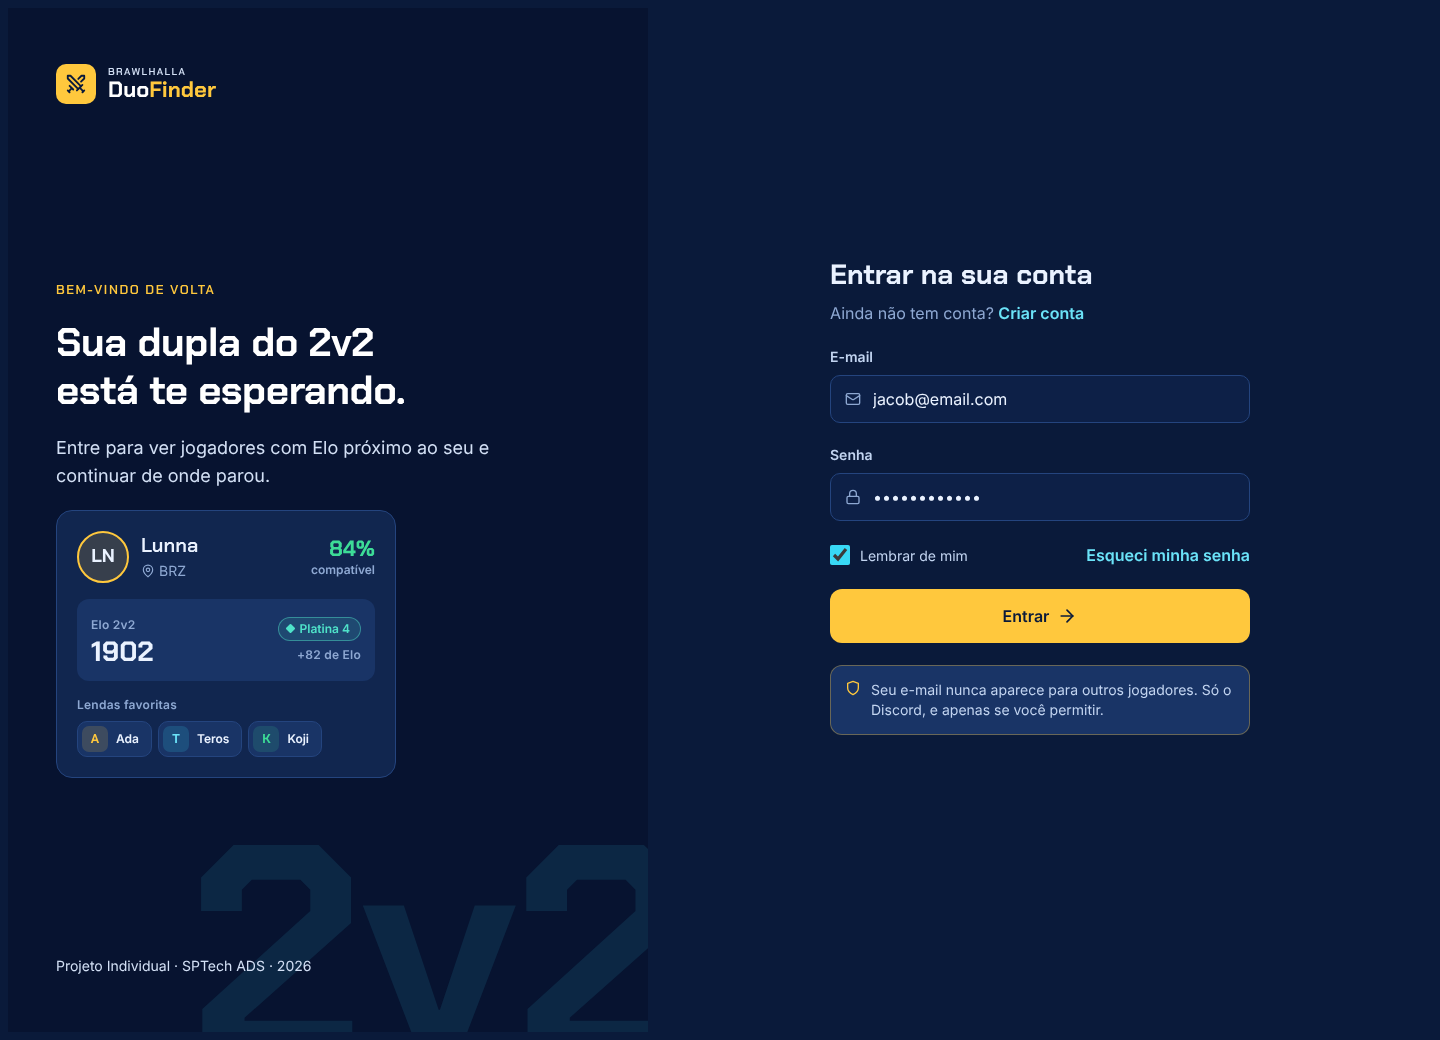
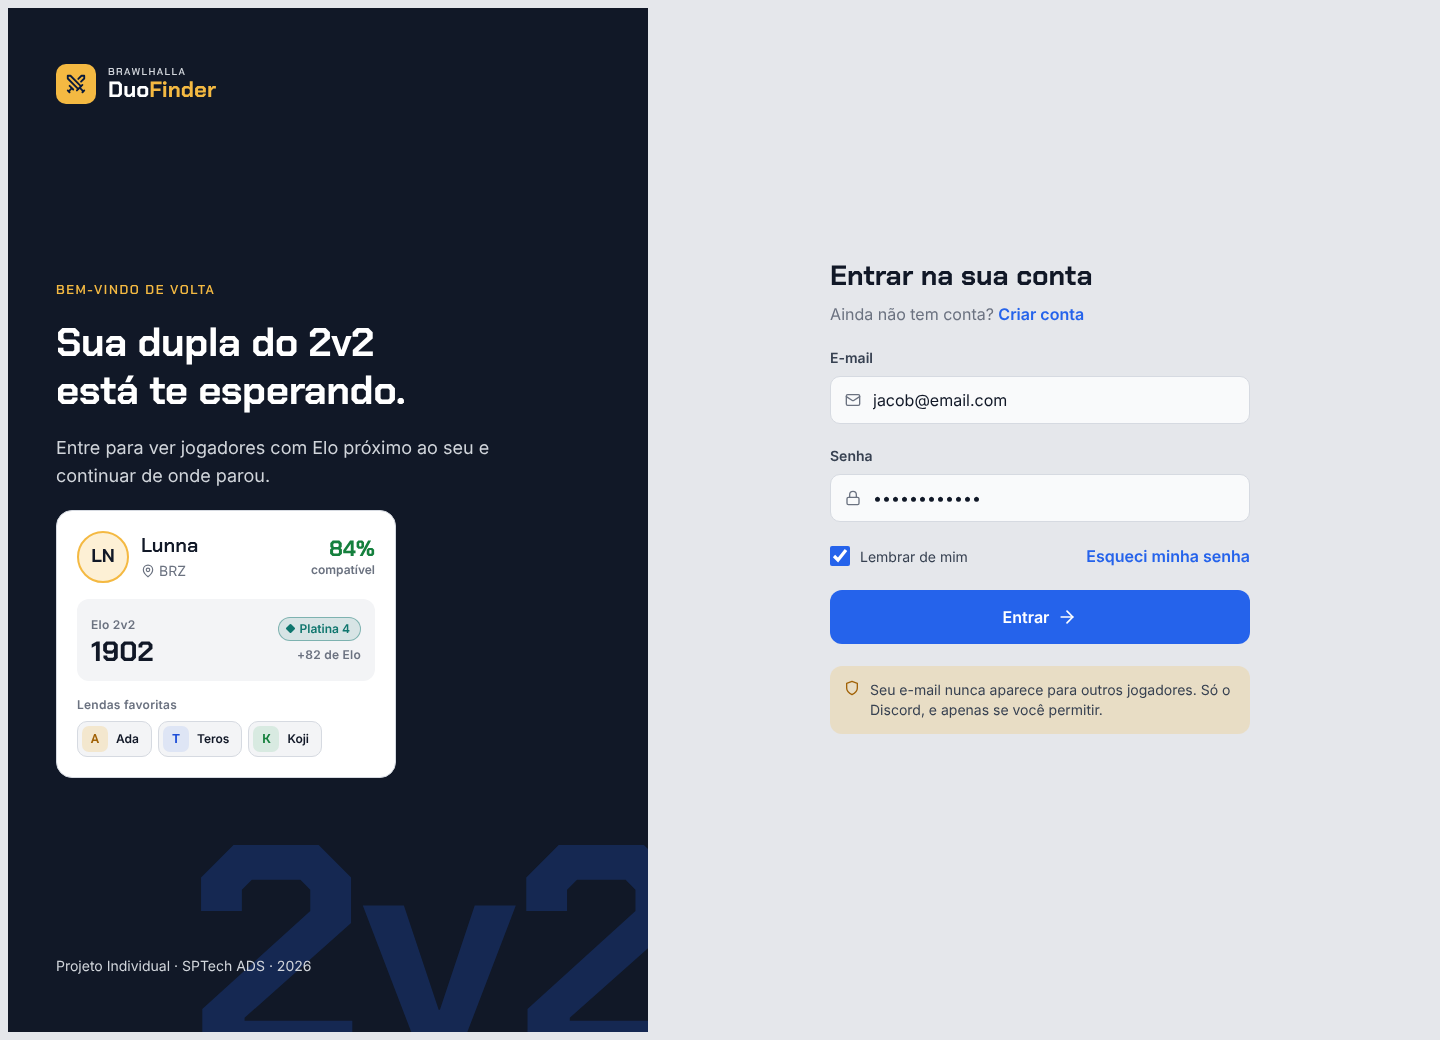
Login volta ao visual claro da primeira versão
A tela de login tinha escurecido junto com o resto do site. Agora só
ela usa de novo o visual claro (painel #111827, formulário sobre
#E5E7EB, botão azul). As demais telas não mudam.

Claude-Session: https://claude.ai/code/session_012ZYGSKHyzzfaeE21aAEwfB

diff --git a/prototipo/index.html b/prototipo/index.html
@@ -60,6 +60,41 @@
   color-scheme: dark;
 }
 
+/* Tela de login: mantém o visual claro da primeira versão (só esta tela) */
+.screen[data-route="login"] {
+  --page: #E5E7EB;
+  --panel: #111827;
+  --surface: #FFFFFF;
+  --raised: #F3F4F6;
+  --field: #F9FAFB;
+  --line: #D6DAE1;
+  --line-strong: #AEB6C3;
+  --ink: #111827;
+  --ink-2: #374151;
+  --ink-3: #6B7280;
+  --accent: #2563EB;
+  --accent-ink: #1D4ED8;
+  --accent-soft: rgba(37, 99, 235, 0.10);
+  --cta: #2563EB;
+  --cta-hover: #1D4ED8;
+  --on-cta: #FFFFFF;
+  --gold: #F4B942;
+  --gold-ink: #A16207;
+  --gold-soft: rgba(244, 185, 66, 0.22);
+  --ok: #15803D;
+  --ok-soft: rgba(22, 163, 74, 0.12);
+  --t-platina: #0F766E; --t-platina-soft: rgba(15, 118, 110, 0.12);
+  --on-dark: #FFFFFF;
+  --on-dark-2: #D1D5DB;
+  background: var(--page);
+  color: var(--ink);
+  color-scheme: light;
+}
+.screen[data-route="login"] .link { color: #2563EB; }
+.screen[data-route="login"] .note.gold { background: var(--gold-soft); border: 0; }
+.screen[data-route="login"] .panel .deco { color: rgba(37, 99, 235, .22); }
+html:has(.screen.on[data-route="login"]), html:has(.screen.on[data-route="login"]) body { background: #E5E7EB; }
+
 * { box-sizing: border-box; }
 [hidden] { display: none !important; }
 html { background: var(--page); }

diff --git a/prototipo/README.md b/prototipo/README.md
@@ -58,6 +58,9 @@ O azul profundo vem do mundo do jogo, o ciano do brilho atrás do logo e o doura
 | Verde | `#3DDC97` | Compatibilidade e confirmações |
 | Discord | `#5865F2` | Botões de contato |
 
+A **tela de login** usa o visual claro da primeira versão: painel esquerdo `#111827`, formulário sobre
+`#E5E7EB` com campos `#F9FAFB`, botão "Entrar" e links em `#2563EB`.
+
 Divisões de Elo (texto da insígnia, fundo com 14% de opacidade):
 Tin `#AAB4C8` · Bronze `#E8A06A` · Prata `#D4DEEC` · Ouro `#FFC83D` · Platina `#4FE3C9` · Diamante `#B4BEFF`.
 
